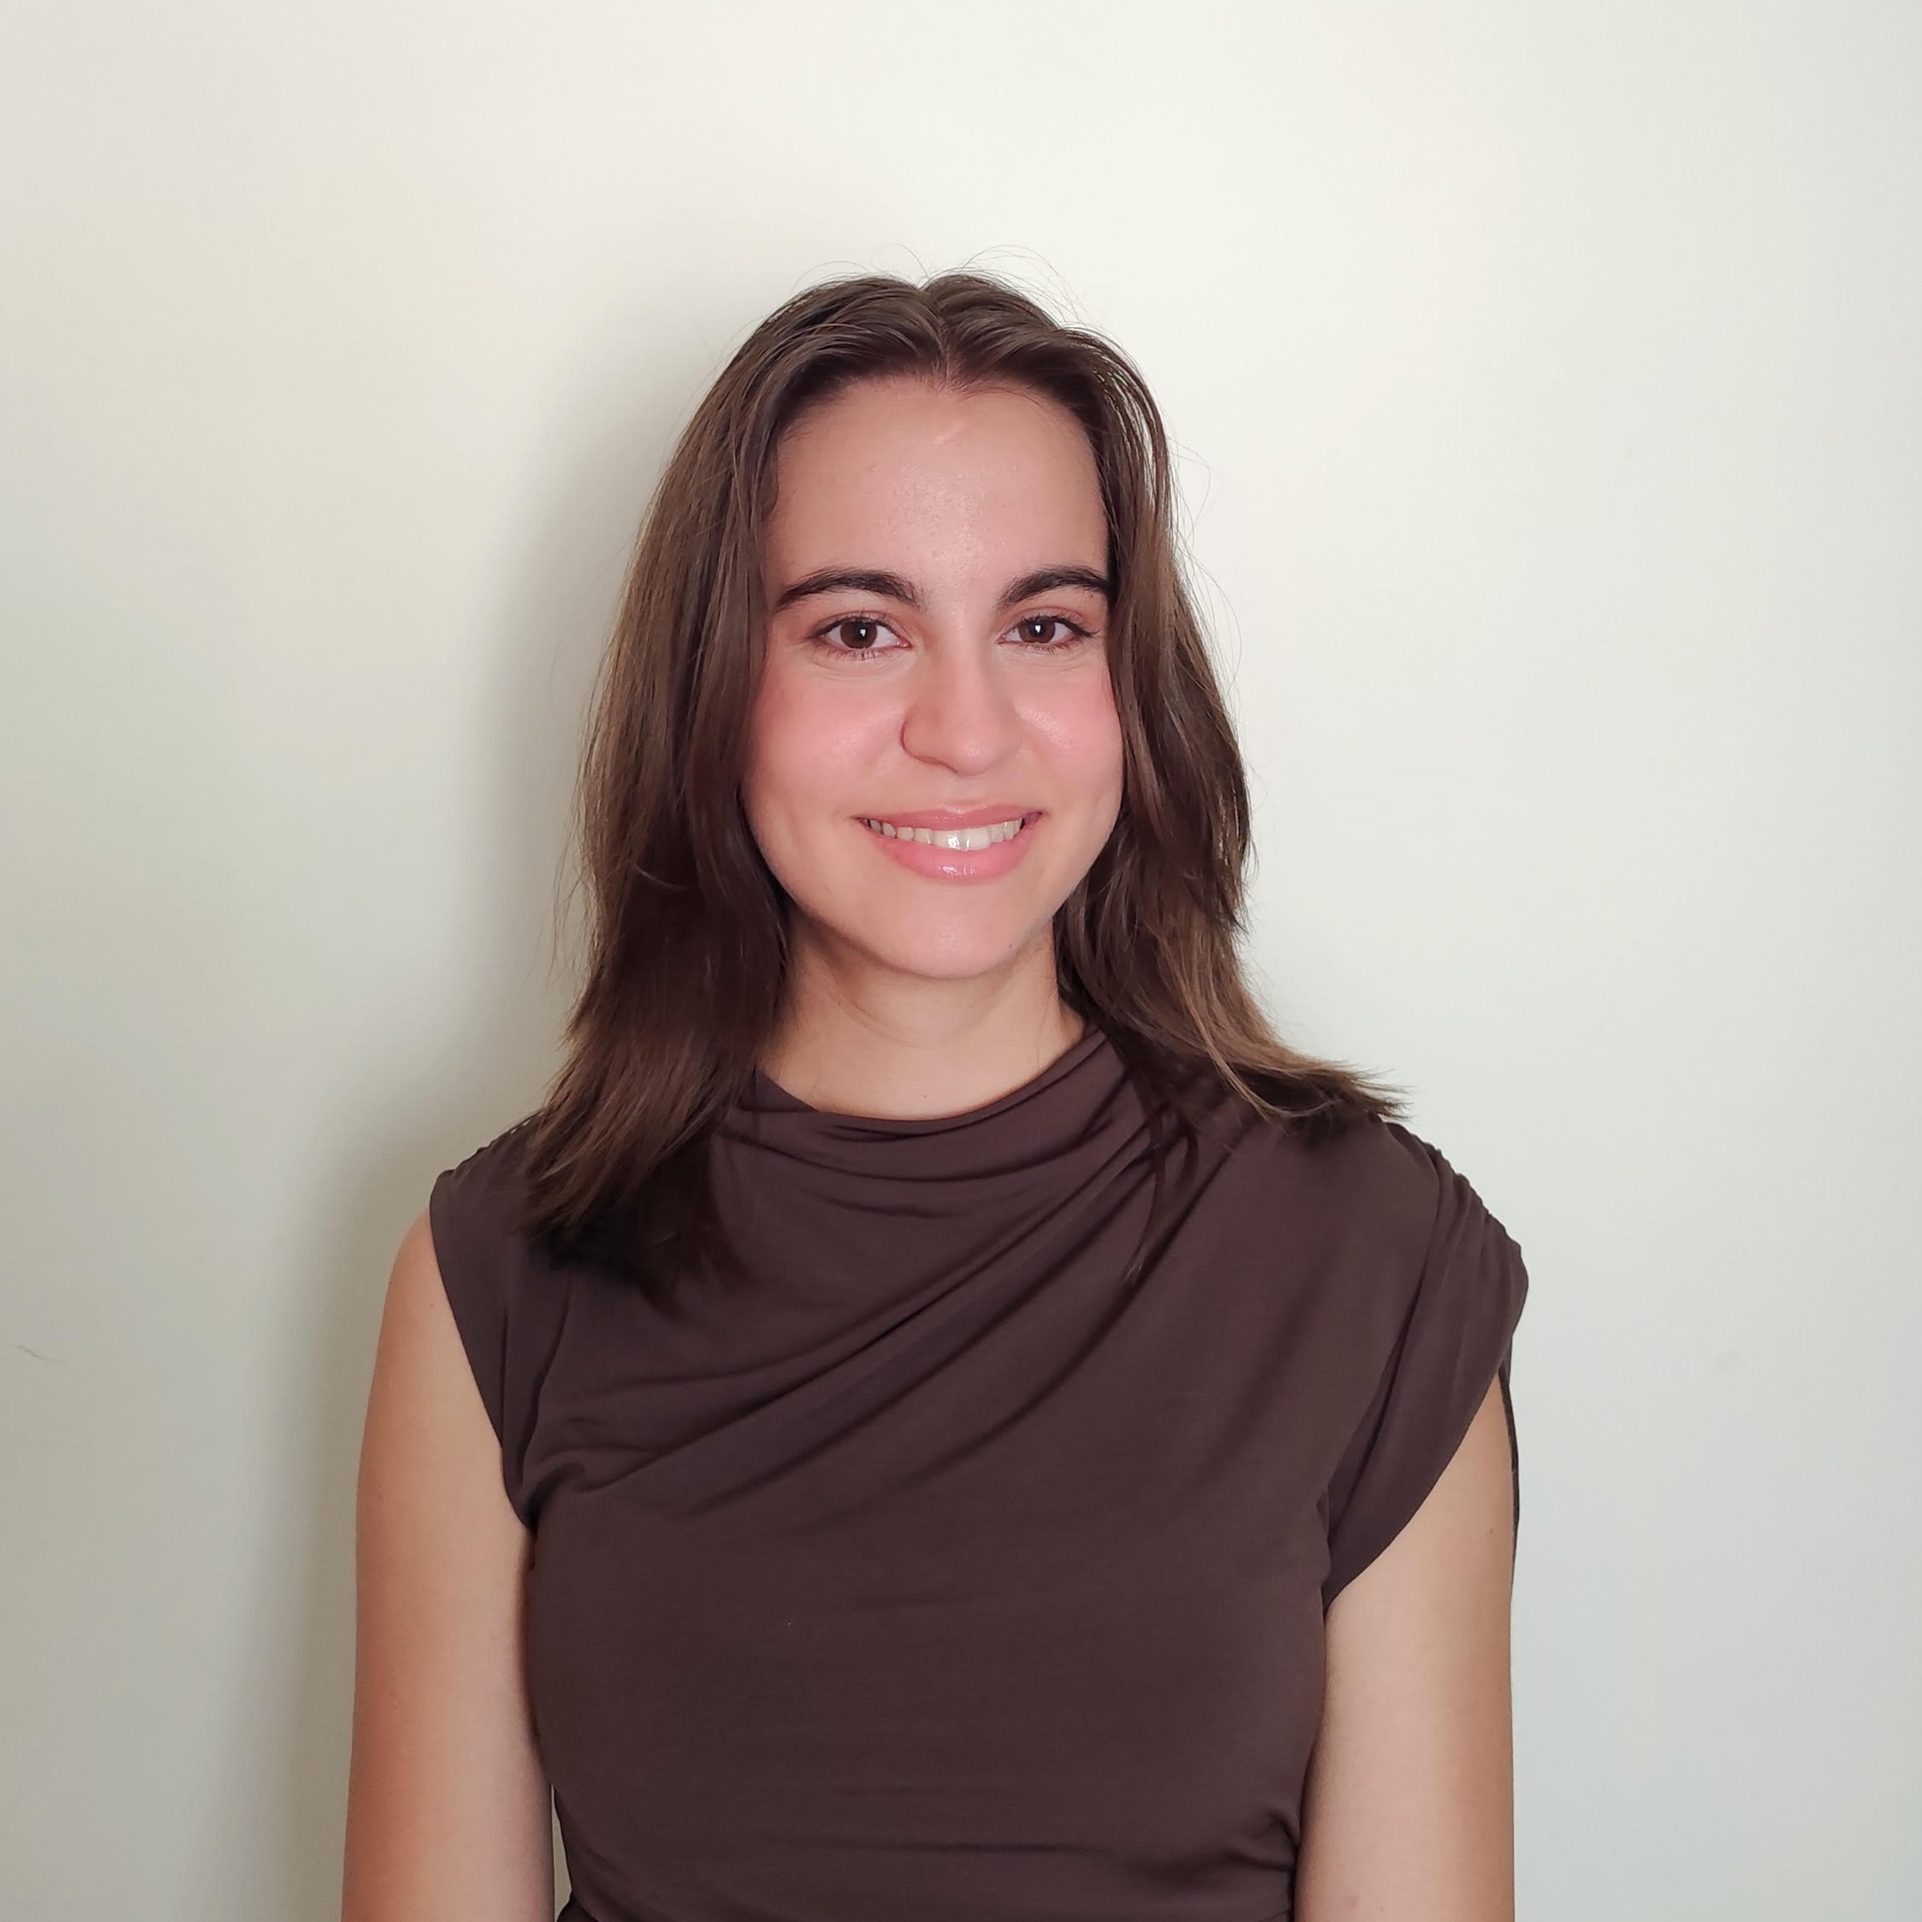
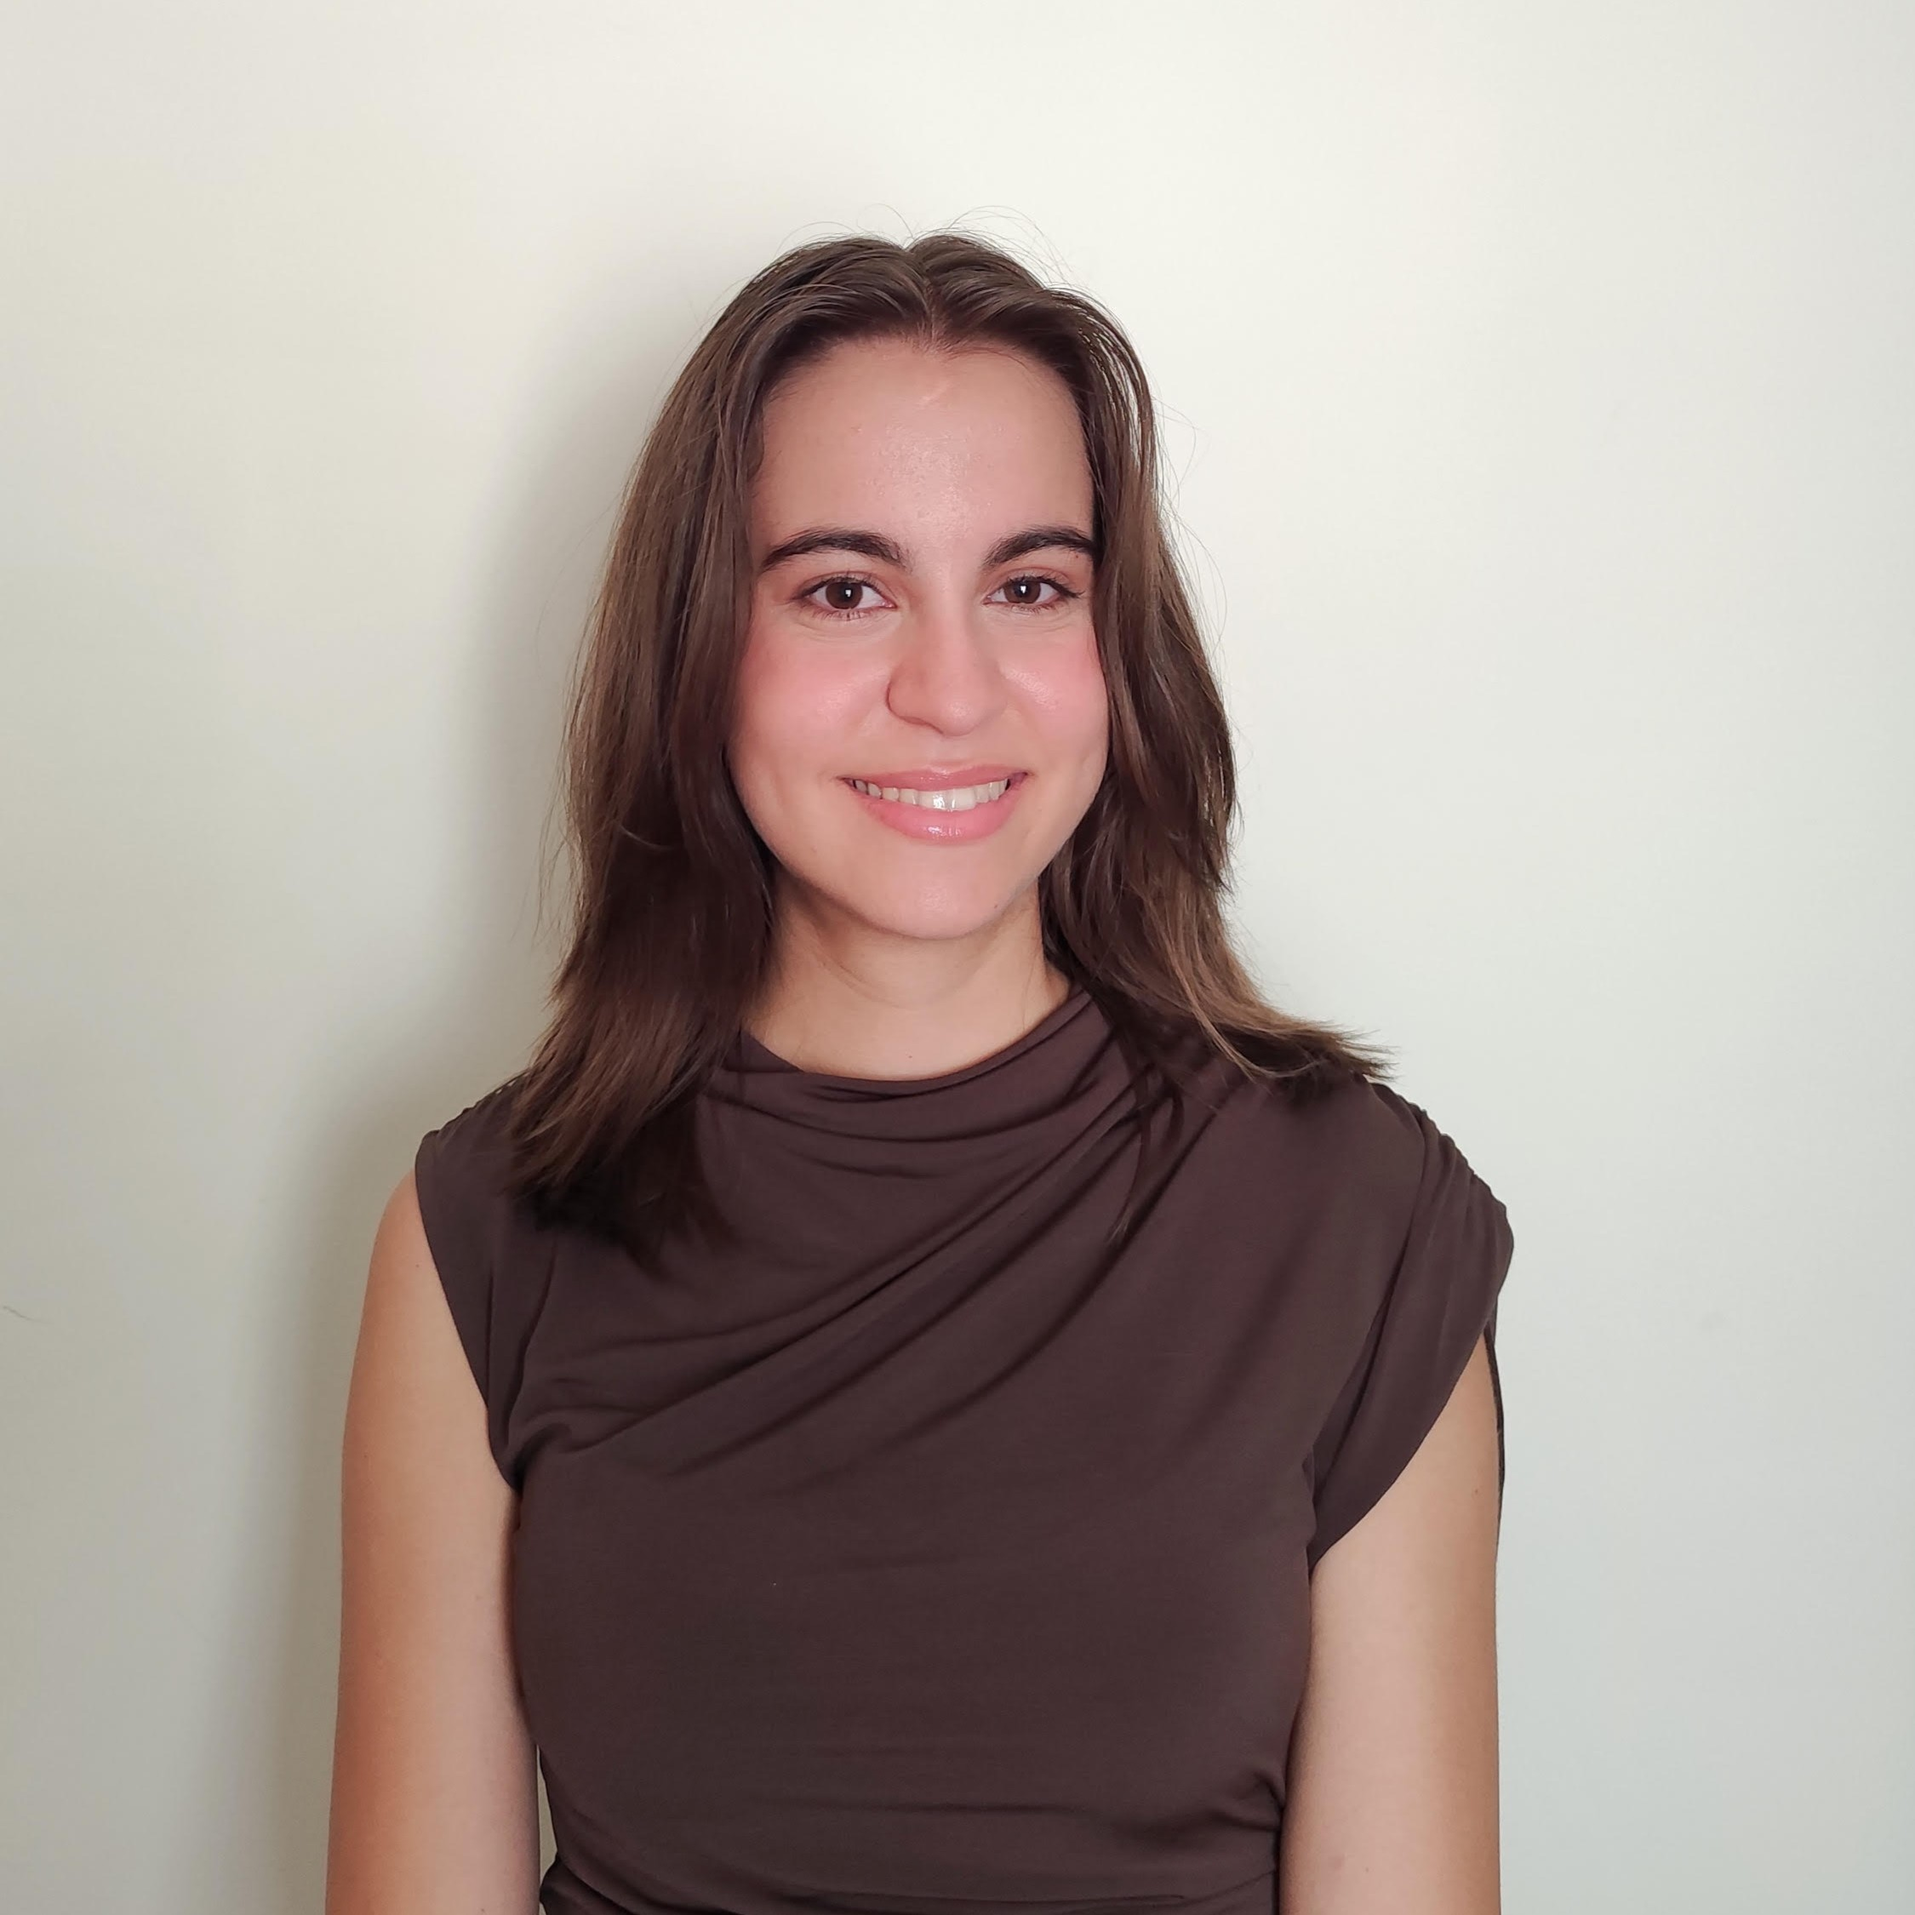
.

diff --git a/wie-site/wie-site/styles.css b/wie-site/wie-site/styles.css
@@ -551,8 +551,8 @@ section.section-tinted {
   background: var(--line);
   margin-bottom: 10px;
   clip-path: polygon(0 0, 100% 0, 100% calc(100% - 22px), calc(100% - 22px) 100%, 0 100%);
-  width: 120px; /* Ρύθμισε το μέγεθος ανάλογα με το design σου */
-  height: 120px;
+  width: 150px; /* Ρύθμισε το μέγεθος ανάλογα με το design σου */
+  height: 150px;
   border-radius: 50%; /* Ή 8px/12px αν θέλεις τετράγωνο με στρογγυλεμένες γωνίες */
   object-fit: cover; /* Εξασφαλίζει ότι η εικόνα γεμίζει το πλαίσιο χωρίς να παραμορφώνεται */
   display: block;
